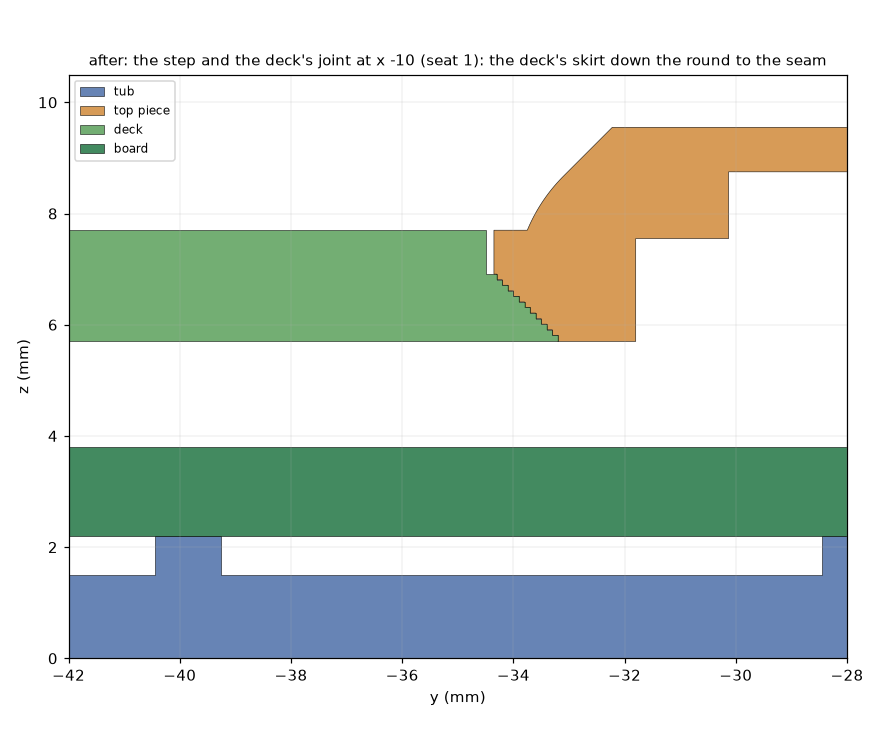
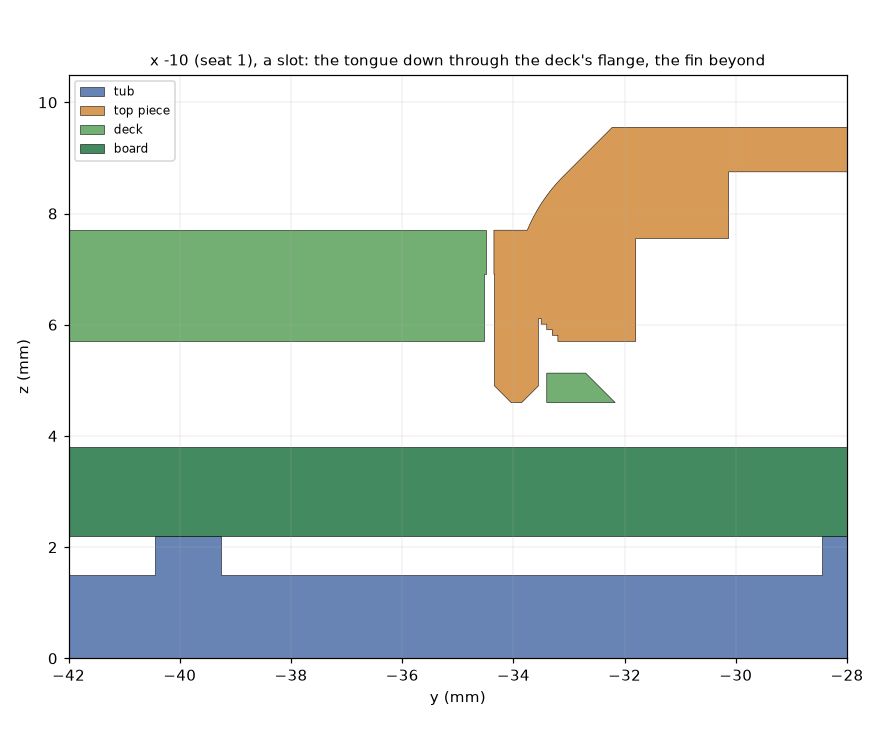
ref_design docs: the tongue under the step (the flange, the slots and ties, where it stops short)
SHELL.md gets the section (what face-down printing allows, the sizes, what it holds,
the keepouts, the room round it, the deep-tub anchor as the precedent), the wedge
alone and the sketched flat flange under "Alternatives considered", an open
question, and the assembly step; PLAN.md the item; the print README the new grams
and the assembly step. Images of dbf61a6's parts: section_joint_zoom (the same cut
and framing, now through a slot) and the new section_flange_tie, _spine, _end and
exploded_tongue.

Claude-Session: https://claude.ai/code/session_01NxPKqL46d94oRzrtCbFjri

Changed region(s): [[0.092, 0.0615, 0.9511, 0.0922], [0.5523, 0.369, 0.7057, 0.5535]]

diff --git a/hardware/ref_design/case/SHELL.md b/hardware/ref_design/case/SHELL.md
@@ -1,4 +1,4 @@
-# The shell for the 2.4 in panel (2026-10-21), with the cell in the board (2026-10-22), joints that hold it together, the seam on the round, and the side joint (2026-10-22)
+# The shell for the 2.4 in panel (2026-10-21), with the cell in the board (2026-10-22), joints that hold it together, the seam on the round, the side joint (2026-10-22), and the tongue under the step (2026-10-23)
 
 The case's redesign after Alex's notes on his last print (items 10, 13, 14 and 15) and the change
 to the EastRising ER-TFT024IPS-3, then reworked for the board with the cell in a hole in it and the
@@ -15,7 +15,8 @@ cell). The top piece and the decks all curve over the sides and meet the tub flu
 4.55 mm (4.05 at the decks) down over the tub's **tongue**, which keys them: tabs into pockets in the top piece, a post in each
 corner that pushes a deck home, and grip ribs, so the four parts hold together before the screws
 go in (see "The joints"). Each deck seats into the top piece **from behind**
-on a 45 degree wedge, reaches out to the case's outline and curves over the end and the sides
+on a 45 degree wedge, which runs on under the step and the spine as a flange that a tongue of the top
+piece drops through (see "The tongue under the step"), reaches out to the case's outline and curves over the end and the sides
 itself, and has its own screw. At each side wall a **lap** on the deck's skirt slides in behind
 the top piece's skirt, and the top piece's side round sweeps down into the deck's (see "The side
 joint"). The board, with the cell in a hole in it, lies inside the tub's
@@ -248,8 +249,9 @@ the board's old job (below).
 (across), four tabs and the USB-C notch (along, and against twisting) and four grip ribs (on). Each
 deck is on the tub by its skirts over 2.4 of tongue and two grip ribs (across, on) and two corner
 posts (across with 0.25, along by pushing it onto the top piece). Each deck is on the top piece by
-its wedges (held there by the posts: it can't move along the case, towards the face or across) and
-by the lap at each side wall (the skirts flush; until "The side joint", a grip rib across the joint). The board is centred by the tub's crush ribs
+its wedges (held there by the posts: it can't move along the case, towards the face or across), since
+"The tongue under the step" by the top piece's tongue in its flange's slots (it can't slide away from
+the step), and by the lap at each side wall (the skirts flush; until "The side joint", a grip rib across the joint). The board is centred by the tub's crush ribs
 and sits between the tub's ribs and bosses and the top pieces' bosses.
 
 All of it prints without supports: the tub back down (the tabs, posts and ribs stand up; every lean
@@ -387,6 +389,94 @@ side wall in a 2.1 mm S right at the seam: a notch that read as two parts.
   has its 11 known failures with the same volumes (the decks' edges at the step didn't move; the laps
   are at the side walls, outside the board).
 
+## The tongue under the step (2026-10-23)
+
+Alex, after the side joint: "Can the deck have some kind of indentation that runs across the entire
+surface that the top piece can insert into to keep both in place across their whole contact
+surface? ... Right now the top piece kind of just sits on top of the deck and so it's likely to move
+around still." He sketched it on `section_joint_zoom`: the deck running on under the step's block,
+and a tongue of the top piece down into a groove in it.
+
+![the joint at x -10, through a slot: the tongue down through the deck's flange, the fin beyond it](images/section_joint_zoom.png)
+![the joint at x -14.1, through a tie: the deck's wedge whole, on down to 4.6](images/section_flange_tie.png)
+![across the spine's right side at y -38.5, through a slot](images/section_flange_spine.png)
+![through the spine's end at x -3.8: the wedge on down, no slot](images/section_flange_end.png)
+![exploded, as built face down: the top piece's tongues, and the deck from behind with its slots and ties](images/exploded_tongue.png)
+
+**What the print allows.** Both parts print face down and the deck goes in from behind, so whatever
+of a deck lies under the top piece prints off the deck's face at 45 degrees at most: it must stay
+under the wedge's line (45 degrees from the land's foot, 6.9), or it starts in mid air. A flange
+running flat under the block, as sketched, is a 1.4 to 2.7 mm ledge face down. And a groove under the
+top piece can't have a wall on its far side: that wall, face down, starts in mid air too, with the
+groove between it and the deck. So the deck's part of the joint is its wedge, carried on deeper, and
+the groove's far wall is bridged from places where the wedge is whole.
+
+**The flange, the tongue and the slots** (`z_flange`, `lock_*` in `case.scad`):
+- **The flange:** each deck's wedge runs on down its 45 degree line from 5.7 (where it stopped) to
+  **4.6**, 0.8 over the board and 0.3 over its 0402 capacitors (0.5, the tallest parts allowed under it),
+  reaching **2.3** in under the top piece (to y +-32.05; the block's far side is at 31.8). It runs
+  across the step from the spine to 1.0 inside the side walls (x +-35.7: the laps and the tub's
+  tongue are beyond), down both sides of the spine and round its end.
+- **The tongue:** on the top piece, **0.8** thick, its outer face in the land's plane (the joint's
+  line), from the band down to 4.6: 2.3 under the land's foot, 1.1 under the block's underside. Its
+  tip's edges and its ends are chamfered 0.3 as lead-ins.
+- **The slots:** through the flange, 1.1 wide (`deck_gap` 0.15 each side of the tongue: the deck's
+  land on one side, the fin on the other), its ends 0.15 off the tongue's. Each is 2.1 to 4.0 long,
+  between **ties** 1.5 long where the wedge is whole. Per end: across the step, 3 x 3.32 between Q5
+  and Q3, 2 x 2.07 between Q3 and the flange's end, 1 x 4.01 between D3 and X1, 2 x 3.91 between X1
+  and Q6 (25.9 of its 57.9 mm); down each side of the spine, 2 x 3.26 (13.0 of its 23.8). The
+  section at x -10 is through a slot (-13.38 to -9.47).
+- **The fins:** beyond each slot the flange is a fin under the wedge's line (0.12 under it, so a
+  sagging first layer doesn't bear on the top piece), its top flat at **5.13** where it is **0.7**
+  thick (0.65 on the spine's sides, where the wedges keep 0.15 off the top piece), 1.2 at its foot.
+  The tongue engages it **0.53** (4.6 to 5.13); on the deck's side it faces the deck's land over 2.0
+  (5.7 to 7.7). Face down, each fin's top is a bridge from tie to tie (the P1S slices it as overhang
+  walls, the 2.8 layer); `overhangs.py` counts it a bridge, 2.0 from a held edge at most.
+
+**What it holds.** Across the step the fins stop a deck sliding away from the screen (0.15 of
+play; until now only the corner posts did), and the tongue's ends against the ties stop it across.
+Down the spine's sides the ties stop it along the case both ways (0.15 of play, engaged 1.35 to 2.15
+deep) and the fins and the opposing wedges across. The tongue is straight, along the way the deck goes
+in, so it doesn't hold the parts together that way: the screws and the tub do, as before. **The
+wedge stays:** the ties and the fins' slopes still hold the deck in from the front, and the corner
+posts still push it home onto them (it can lie back only 0.15 now).
+
+**Where it stops short.** One deck fits both ends, so the flange keeps clear of both ends' parts
+(seat 2's turned round). Over each part taller than 0.5 its foot stops 0.32 over the part (its top
+rounded up, 0.3 and 0.02 more), and no slot ends within a tie's length of one that cuts it off above
+the fins' tops (`flange_keep`, from check_fit's board model):
+
+| Part | Where (seat 1's frame) | Height | The flange's foot over it |
+|---|---|---|---|
+| Q5, Q6 (SOT-23) | each side of the spine at the step, x +-5.15 to +-7.65 | 1.20 | 5.32 |
+| Q3 (SOT-23) | x 24.25 to 26.75 | 1.20 | 5.32 |
+| D3 (seat 2's, SOD-323) | x -33.95 to -31.45 | 1.11 | 5.23 |
+| X1 (crystal) | x -23.8 to -20.6 | 0.80 | 4.92 |
+| C5, C6, C7 (0603) | x -34.0 to -28.8, just past the block's far side | 0.80 | 4.92 |
+| U8, U9 (seat 2's) (TSSOP-16) | under the spine's end, x -2.8 to 4.0 | 1.10 | 5.22 |
+
+At the spine's end U8 and U9 leave no room for a slot: the wedge runs on down (to 5.22 over them,
+4.6 beside them) with no tongue. **The room round it** (asserted in `case.scad`, both ends): the
+side screws' bosses (H1 and H2 turned round, y +-29) 0.55 off its edge, the end bosses 1.84, the
+panel's frame and its FPC's fold 0.82, J4 0.32, the speaker, Start/Select and the pads far off
+(the pads' circles 1.1 at the least), the tub's tongue and the laps 0.75 beyond its ends, and the
+grip ribs and corner posts. `check_fit.py` checks the board under it from case.scad's `FLANGE` line:
+43 parts under it, the tallest of them away from the keepouts 0.50 (0.3 under the flange), 11 under
+the keepouts. `positions.json` is the same, `check_buttons` has its 11 known failures with the same
+volumes, the outside is unchanged (the renders from outside match pixel for pixel), every part is
+manifold and support-free. Each deck is 0.07 cm3 heavier, the top piece 0.10 (P1S: `1_case_decks`
+9.4 g, 26 min; `1_case` 55.9 g; `5_unit` 65.2 g, 2 h 08 min).
+
+**Assembly** is as before: the deck goes face down into the face-down top piece from behind, and the
+slots go down over the tongues in the same motion, the tongues' chamfered tips leading them in. Then
+it sits on its ties' wedges.
+
+**The precedent:** in the deep-tub version (2026-10-20, `anchor` in `0b7d4e5`'s `case.scad`), each
+deck insert ran on under the spine round the end screw's boss, and the lid's boss dropped through a
+ring in it, because the wedges alone felt loose; it went when the 0.15 ring round the boss proved too
+tight and the end screws moved onto the decks. This joint has no ring round a column: its fits are
+the 0.15 on straight faces that the inserts slid on.
+
 ## The smooth rounds (2026-10-22)
 
 The top piece's and the decks' rounds and the step were stacks of flat 0.1 mm slabs, as the tub's
@@ -473,7 +563,9 @@ end wall; they wobbled at the sides and the lip felt fragile. Now each deck:
   in the top piece (`wedge_w`; `deck_gap` 0.15 on the straight faces and the spine's sides, none on
   the wedges along the step and round the spine's end, where the tub's corner posts hold it: "The
   joints"). It drops in from behind, centres itself, and can't
-  come out of the front. The wedges on the spine's two sides oppose each other, so it can't move
+  come out of the front. (Since 2026-10-23 the wedge runs on down to 4.6 as a flange and a tongue of
+  the top piece drops through slots in it, so the deck can't slide away from the step either: "The
+  tongue under the step".) The wedges on the spine's two sides oppose each other, so it can't move
   across the case; along it, the wedges at the step and round the spine's end both face the same
   way, so they don't hold it: the tub's corner posts push it onto them (2026-10-22; until then
   nothing did, and a deck slid back down its wedges);
@@ -490,7 +582,8 @@ One part fits both ends (the end bosses are each other turned round, as before).
    its front foam ring stuck to the pocket's ceiling (the pocket centres it; standing on the board,
    0.45 to 0.75 under the ceiling, its front would be open to its back).
 2. **Decks:** each face down into its end of the top piece from behind, the laps at its sides going
-   in behind the top piece's skirts; it drops onto its wedges and sits flat (it may settle 0.15 back down them, onto the spine's sides: the tub's posts push it
+   in behind the top piece's skirts and the slots in its flange down over the top piece's tongues;
+   it drops onto its wedges and sits flat (it may settle 0.15 back down them, onto the spine's sides: the tub's posts push it
    home in step 8).
 3. **Caps** into the decks from behind (A/B/X/Y tab into its slot, notches onto their ribs; the
    D-pad; Start/Select), then the **silicone** on them: the walls on the deck's back locate each pad.
@@ -645,6 +738,19 @@ tub's tongue became 0.75 thick (was 0.85).
   under `skirt_t`, unless the tongue moved inwards. **The USB-C opening wholly in the top piece, the
   tub's tab gone:** the receptacle stands 0.85 into the skirt and the board goes in straight down
   (see that section).
+- **The wedge alone** (until 2026-10-23): the deck's edge under the top piece's 45 degree undercut,
+  along the step and round the spine. Replaced: it only stops a deck towards the screen and out of the
+  front (the wedges across the step and round the spine's end all face the same way), so along the case
+  only the tub's corner posts held the two together, and with the tub off, or with the parts
+  handled before the screws, the top piece "kind of just sits on top of the deck" (Alex). The wedge
+  stays, carried on deeper, with the tongue through it ("The tongue under the step"). **A flange run
+  flat under the step's block, as sketched:** face down it is a 1.4 to 2.7 mm ledge off the wedge, in
+  mid air. **One groove all along it:** its far wall would start in mid air face down too; the ties
+  bridge it, so the tongue is in pieces. **A groove with a floor under the tongue** (0.7 of plastic
+  under it): over a flange whose foot is 0.8 over the board it would leave the tongue 0.2 of
+  engagement; the slots go through. **The flange lower, for more engagement:** under it there are 0402
+  capacitors (0.5) all along; keeping out of them as well would cut the slots into short pieces for
+  0.15 more. **A tongue at the spine's end:** U8 and U9 (1.1) are under most of it.
 - **Shoulders and the decks' notches back** (for the hold): neither kit Alex printed had them (they
   lived from 99e3f04 to c955631), so they weren't what held 4df3f96; the screws stay inward.
 
@@ -686,6 +792,13 @@ tub's tongue became 0.75 thick (was 0.85).
    the skirts it is held all along, but off the case it will flex. Handle the tub by its floor. The
    skirts' tips are 0.70 at the seam; if the face-down print leaves them ragged, the seam can go up
    (each 0.1 up the round thickens them about 0.04).
+11. **The tongue under the step** (2026-10-23, guesses until a print): whether each deck still drops
+   in from behind with the slots over the tongues (0.15 a side; if it binds, the slots can go to 0.2,
+   `lock_far` and the tie ends with them), whether the fins' first layers bridge clean from tie to tie
+   (the P1S prints them as overhang walls; a droop under 0.12 doesn't touch the top piece), and whether
+   the deck now stays put along the step with the tub off. The fins are small (0.53 of engagement):
+   if they give, more ties and shorter slots are the way, not a deeper flange (the board's 0402s are
+   0.3 under it).
 
 ## Images
 
@@ -700,4 +813,7 @@ skirts ending at 4.3; `section_usb` and `outside_usb` are new. Since "The side j
 parts): `joint_outside`, `section_side_joint`, `outside_front`, `outside_back`, `outside_side`,
 `section_h2`, and the new `joint_outside_left`, `section_lap`, `lap_inside`, `exploded_lap` and
 `section_blend_along`; the others don't cut or see the side joints. `exploded_keys` still shows the
-grip rib across the side joint and the left keys at 22 and -24.
+grip rib across the side joint and the left keys at 22 and -24. Since "The tongue under the step"
+(dbf61a6's parts): `section_joint_zoom` (the same cut and framing as before, now through a slot) and
+the new `section_flange_tie`, `section_flange_spine`, `section_flange_end` and `exploded_tongue`; the
+outside is unchanged, so the outside views stay.

diff --git a/hardware/ref_design/PLAN.md b/hardware/ref_design/PLAN.md
@@ -29,7 +29,7 @@ The 2-layer build applies the cost changes Alex approved on 2026-09-24 and has b
 | USB | one USB-C, charge + data, SRV05-4 ESD referenced to 3V3, 27 ohm 0402 series in Raspberry Pi's spots | one Extended part ($3 an order): the 27 ohm 0402 (C25100; 22 ohm until the 2026-10-05 pin review, and a 27 ohm 0603 doesn't fit the copied layout) and the ESD array was the second from 2026-10-07 (ProTek's Preferred SRV05-4, C85364, ran out, so U1 became Semtech's Extended SRV05-4.TCT, C13612) until 2026-10-20, when U1 became hongjiacheng's Preferred SRV05-4A (C20615829, Alex): same pinout, no setup fee |
 | Debug | JST SH SWD and UART (Raspberry Pi debug pinout), BOOTSEL and RESET under pinholes in the top piece; SWD again on six 2.54 mm pogo pads on the back (J7: 3V3, SWCLK, SWDIO, RUN, BOOTSEL, GND); probe pads on every rail (VBUS, VSYS, VBAT, 3V3, 1V1), the panel's SPI, BL_REF, PWR_EN, LS_GATE, AMP_SHDN and two GND clips; cut jumpers isolate the 3V3 regulator, backlight, amplifier, panel logic and cell (JP1-JP5) | no LEDs (approved); pads and jumpers added after Alex's debug-readiness review (2026-10-19) |
 | Board | 2 layers, 1.6 mm, ENIG, every hole >= 0.3 mm; parts on the top only | $3.34 a board at 10, against $9.74 for the 4-layer one with 0.25 mm holes |
-| Case | 77.4 x 132.7 x 9.55 mm (7.7 at the decks; 2026-10-22, for the board with the cell in it): a top piece and two decks (one part) curve over the sides and meet the tub (the back) flush at one seam low on the walls, low on the back's round (2.55 mm up since 2026-10-22, was 4.2), over the tub's tongue (to 7.2, 6.7 at the decks, since 2026-10-22), which keys them: four tabs into the top piece, a post in each corner that pushes a deck onto its wedges, grip ribs, so the parts hold together before the screws; each deck seats into the top piece from behind on a 45 degree wedge, and laps in behind the top piece's skirt at each side wall, where the top piece's side round sweeps down into the deck's over 9.4 mm (2026-10-22); built upside down; six M2 x 6 screws from the back through the board, four into the top piece beside the glass (no shoulders since 2026-10-22) and one into each deck; no hooks; crush ribs on the tub centre the board; the cell in a pocket in the tub's floor, the speaker under a grille in the right bezel; every part prints without supports, every edge and the step to each deck an arc ending in a chamfer at `overhang` (45 until the 6_tests ladder) (case/SHELL.md, 2026-10-21); the USB-C opening's lower half in a tab of the tub; the button openings, lips and walls from Alex's DS Lite faceplate (2026-10-21), keyed by tab and notches; no lens, light pipes or power cap | Alex's notes 10, 13, 14 and 15 (2026-10-21); FDM at home, about $1.50 of filament |
+| Case | 77.4 x 132.7 x 9.55 mm (7.7 at the decks; 2026-10-22, for the board with the cell in it): a top piece and two decks (one part) curve over the sides and meet the tub (the back) flush at one seam low on the walls, low on the back's round (2.55 mm up since 2026-10-22, was 4.2), over the tub's tongue (to 7.2, 6.7 at the decks, since 2026-10-22), which keys them: four tabs into the top piece, a post in each corner that pushes a deck onto its wedges, grip ribs, so the parts hold together before the screws; each deck seats into the top piece from behind on a 45 degree wedge, run on under the step as a flange that the top piece's tongue drops through (2026-10-23), and laps in behind the top piece's skirt at each side wall, where the top piece's side round sweeps down into the deck's over 9.4 mm (2026-10-22); built upside down; six M2 x 6 screws from the back through the board, four into the top piece beside the glass (no shoulders since 2026-10-22) and one into each deck; no hooks; crush ribs on the tub centre the board; the cell in a pocket in the tub's floor, the speaker under a grille in the right bezel; every part prints without supports, every edge and the step to each deck an arc ending in a chamfer at `overhang` (45 until the 6_tests ladder) (case/SHELL.md, 2026-10-21); the USB-C opening's lower half in a tab of the tub; the button openings, lips and walls from Alex's DS Lite faceplate (2026-10-21), keyed by tab and notches; no lens, light pipes or power cap | Alex's notes 10, 13, 14 and 15 (2026-10-21); FDM at home, about $1.50 of filament |
 | Schematic | generated from `board/design.py` by `tools/build_sch.py`; checked by `check_netlist.py` and ERC | the data is the source of truth |
 
 ## Phases
@@ -95,6 +95,20 @@ Next:
       passes, manifold and support-free; P1S 1_case 55.8 g, 1_case_decks 9.2 g, 5_unit 64.9 g
       (case/SHELL.md, "The side joint"). To check on the next print: the decks still drop in, the
       skirts flush across the joint, the lap's tip clean
+- [x] The tongue under the step (2026-10-23, Alex: the top piece "kind of just sits on top of the
+      deck"; an indentation across their whole contact that it inserts into): each deck's wedge runs
+      on down its 45 degree line to 4.6 (0.8 over the board, 0.3 over its 0402s), 2.3 in under the
+      top piece, across the step and down the spine's sides and round its end; the top piece has a
+      0.8 tongue in its land's plane down through slots in it (0.15 a side, 0.3 lead-ins), 2.1 to 4.0
+      long between 1.5 ties, the flange beyond each slot a fin bridged from tie to tie (0.7 thick at
+      its top, 0.53 of engagement). Face down a flat flange or one long groove would start in mid air,
+      so the tongue is in pieces (25.9 of the step's 57.9 mm and 13.0 of the spine's sides' 23.8 per
+      end). Over the board's taller parts (Q3, Q5, Q6, X1, D3, C5-C7, U8, U9) the flange stops 0.3
+      over them, with no slot; the spine's end has none. The wedge stays. check_fit checks the board
+      under it (case.scad's FLANGE line); positions.json unchanged, check_buttons the same 11, the
+      outside unchanged; P1S 1_case 55.9 g, 1_case_decks 9.4 g, 5_unit 65.2 g (case/SHELL.md, "The
+      tongue under the step"). To check on the next print: the decks drop in over the tongues, the
+      fins' bridges print clean, the deck stays put along the step with the tub off
 - [x] Row 4, metal snap domes under Start/Select: the board has them (SW20-SW23); the case has
       `ss_metal_dome` and `ss_plunger_gap` and two asserts (the dome fits the pad's well; the
       plunger rests clear of the apex). `ss_lift` stays 0.35 on the assumed 0.36 plunger height.

diff --git a/hardware/ref_design/case/print_package_README.md b/hardware/ref_design/case/print_package_README.md
@@ -51,7 +51,8 @@ real case, each in its print pose.
 the speaker's grille in the right bezel, the sides; the four side screws go into it beside the glass)
 and the two decks (the button faces) curve over the sides and meet the tub flush at one seam low on
 the back's round (2.55 mm up), their skirts following the round down to it; each deck seats into the top piece from behind on a 45 degree wedge and has its own
-screw. The tub's tongue stands 4.65 mm up inside the skirts (4.15 at the decks) and keys them: four
+screw, and the wedge runs on under the step as a flange that a tongue of the top piece drops through,
+so the deck can't slide away from the step (2026-10-23). The tub's tongue stands 4.65 mm up inside the skirts (4.15 at the decks) and keys them: four
 tabs into pockets in the top piece, a post in each corner that pushes a deck onto its wedges, and
 grip ribs, so the case holds together before the screws go in. At each side wall a lap on the
 deck's skirt slides in behind the top piece's skirt (the tongue stops either side of it), and the top
@@ -63,17 +64,18 @@ The case's parts, as they print (P1S, 0.20 mm, from its sliced projects):
 
 | Part | Size (mm) | On |
 |---|---|---|
-| `tub.stl` | 77.4 x 132.7 x 8.5 (the tabs; the tongue's top 6.7 to 7.2, its outside 2.55 tall) | `1_case` (55.8 g, 1 h 42 min with the top piece, the board mock and the dummies), `5_unit` |
+| `tub.stl` | 77.4 x 132.7 x 8.5 (the tabs; the tongue's top 6.7 to 7.2, its outside 2.55 tall) | `1_case` (55.9 g, 1 h 43 min with the top piece, the board mock and the dummies), `5_unit` |
 | `top.stl` | 77.4 x 92.5 x 6.9 | `1_case`, `5_unit` |
-| `deck.stl` (print two) | 77.4 x 35.0 x 5.05 (the laps reach 1.8 past the face) | `1_case_decks` (9.2 g, 23 min for both), `5_unit` |
+| `deck.stl` (print two) | 77.4 x 35.0 x 5.05 (the laps reach 1.8 past the face) | `1_case_decks` (9.4 g, 26 min for both), `5_unit` |
 
-`5_unit` (the tub, the top piece, both decks, the board mock and the dummies on one plate) is 64.9 g and 2 h 05 min.
+`5_unit` (the tub, the top piece, both decks, the board mock and the dummies on one plate) is 65.2 g and 2 h 08 min.
 
 To assemble:
 1. Top piece face down on a cloth. The speaker face down into its pocket over the grille, its
    front foam ring stuck to the pocket's ceiling.
 2. Each deck face down into its end of the top piece from behind, the laps at its sides going in
-   behind the top piece's skirts: it drops onto its wedges and sits flat (it may settle a little back along them; the tub pushes it home). Caps into the decks from
+   behind the top piece's skirts and the slots along its inner edge down over the top piece's
+   tongues: it drops onto its wedges and sits flat (it may settle a little back along them; the tub pushes it home). Caps into the decks from
    behind (tabs into the slots, notches onto the ribs), silicone on them.
 3. Panel glass down into the top piece's pocket on its tape.
 4. The cell into the tub's floor pocket on double-sided tape, against the pocket's right wall.
